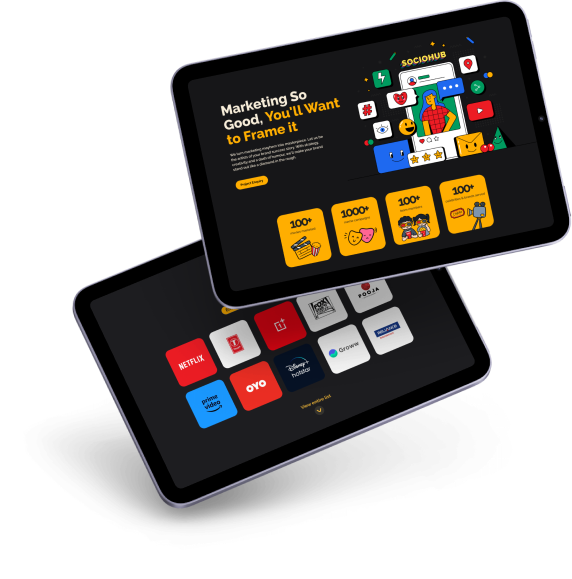
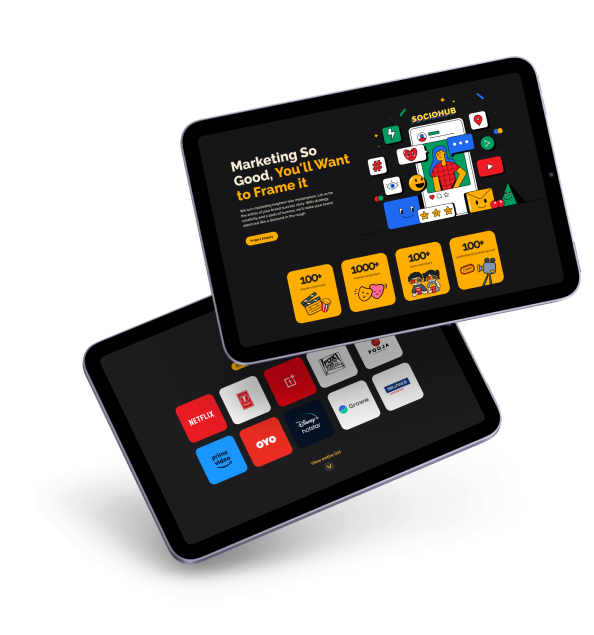
fix: fix work images

Changed region(s): [[0.1189, 0.0, 1.0, 0.9326]]

diff --git a/components/molecules/WorkCard.tsx b/components/molecules/WorkCard.tsx
@@ -1,10 +1,7 @@
 import Image from 'next/image'
-import work1 from '@/public/work_1.png'
 import { BaseButton } from '@/components/atoms/BaseButton'
 import { PropsWithChildren } from 'react'
 import clsx from 'clsx'
-import { motion, useAnimation } from 'framer-motion'
-import { useInView } from 'react-intersection-observer'
 
 type WorkCardProps = {
   className?: string
@@ -19,7 +16,7 @@ const WorkCard = (props: PropsWithChildren<WorkCardProps>): JSX.Element => {
     <>
       <div className={clsx('flex w-full flex-col justify-center md:flex-row', props.className)}>
         <div className="flex justify-center bg-light md:w-1/2">
-          <Image className=" object-cover " src={props.image} alt="work_1" width={10} height={10} />
+          <img className=" object-cover" src={props.image} alt="work_1" />
         </div>
         <div className=" bg-dark-300 p-10 font-medium text-primary-100 md:flex md:w-1/2 md:flex-col md:bg-light md:text-dark-500">
           <div className="mt-auto ">

diff --git a/components/organisms/WorkList.tsx b/components/organisms/WorkList.tsx
@@ -25,7 +25,7 @@ const WorkList = () => {
         title: 'Phynart Smart Home',
         description:
           'At Tangle Design Studio, we help brands go beyond design by solving real digital problems to impact more lives.',
-        image: '@/public/work_1.png',
+        image: '/work_1.png',
       },
       {
         id: 2,
@@ -33,6 +33,7 @@ const WorkList = () => {
         title: 'Sociohub Media',
         description:
           'At Tangle Design Studio, we help brands go beyond design by solving real digital problems to impact more lives.',
+        image: '/work_2.png',
       },
     ]
 
@@ -82,7 +83,7 @@ const WorkList = () => {
                         title={work.title}
                         key={work.id}
                         className="mb-10  md:mb-16"
-                        image={''}
+                        image={work.image}
                       />
                     </>
                   )
